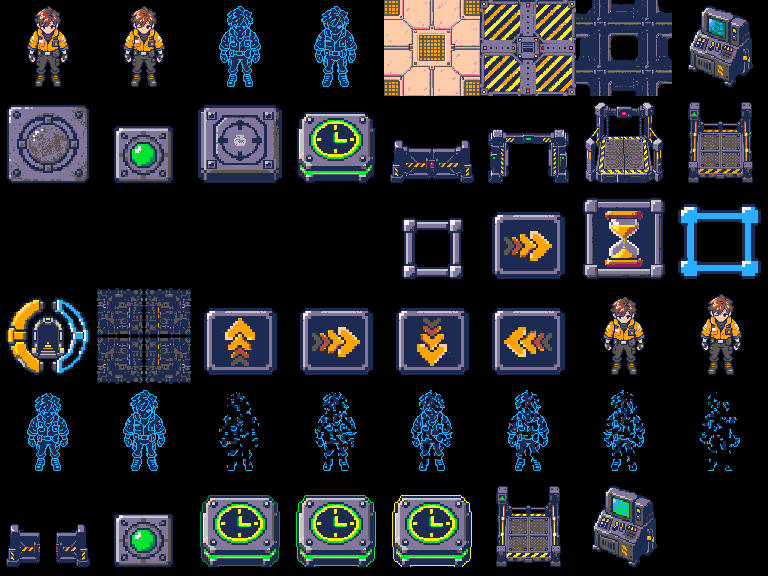
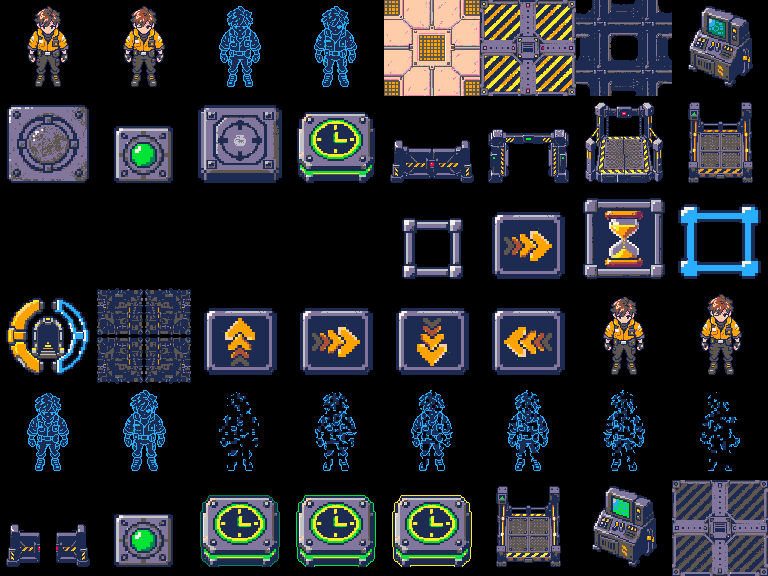
feat(ui): calm the hub room floor with a derived tile and stripe only its threshold

Changed region(s): [[0.875, 0.8125, 1.0, 1.0]]

diff --git a/tests/ui/test_hub_floor.py b/tests/ui/test_hub_floor.py
@@ -1,0 +1,51 @@
+from echo_shift.engine.loader import load
+from echo_shift.engine.model import Position
+from echo_shift.paths import resource_path
+from echo_shift.ui import cues
+
+
+def chamber(rows: list[str]):
+    """'#' wall, 'h' hub, 's' hub start, '.' floor outside the hub."""
+    hub = {
+        Position(x, y)
+        for y, row in enumerate(rows)
+        for x, c in enumerate(row)
+        if c in "hs"
+    }
+    start = next(
+        Position(x, y)
+        for y, row in enumerate(rows)
+        for x, c in enumerate(row)
+        if c == "s"
+    )
+    tiles = [["wall" if c == "#" else "floor" for c in row] for row in rows]
+    return load_chamber(tiles, hub, start)
+
+
+def load_chamber(tiles, hub, start):
+    from echo_shift.engine.model import Chamber
+
+    return Chamber(tiles=tiles, start=start, hub=hub, consoles={start}, capacity=0)
+
+
+def test_a_hub_tile_touching_outside_floor_is_a_threshold():
+    room = chamber(["#####", "#shh.", "#hhh#", "#####"])
+    assert cues.hub_thresholds(room) == {Position(1, 1), Position(3, 1)}
+
+
+def test_pillars_and_walls_do_not_make_thresholds():
+    room = chamber(["#######", "#hhhhh#", "#h#h#h#", "#hhshh#", "#######"])
+    assert cues.hub_thresholds(room) == {Position(3, 3)}
+
+
+def test_the_start_is_always_a_threshold():
+    assert cues.hub_thresholds(chamber(["###", "#s#", "###"])) == {Position(1, 1)}
+
+
+def test_shipped_chambers_keep_thresholds_and_a_calm_interior():
+    for number in range(1, 7):
+        room = load(resource_path("levels", f"chamber_{number:02}.json"))
+        edge = cues.hub_thresholds(room)
+        assert room.start in edge
+        assert edge <= room.hub
+        assert room.hub - edge

diff --git a/src/echo_shift/ui/app.py b/src/echo_shift/ui/app.py
@@ -168,6 +168,7 @@ class Game:
         self.room_view = (self.layout.cell, self.layout.room_x, self.layout.room_y)
         self.shaken = self.room_view  # the room view with any failure shake applied
         self.room_bounds = (0, 0, 0, 0)
+        self.hub_edge: tuple[object, frozenset[Position]] = (None, frozenset())
         self.camera = camera.Camera()
         self.text_cache = {}
         self.fonts = {}
@@ -1325,6 +1326,9 @@ class Game:
         lit = lighting.lit_tiles(state)
         pads = {pad.position: pad for pad in state.chamber.pads}
         devices = {device.position: device for device in state.chamber.devices}
+        if self.hub_edge[0] is not state.chamber:
+            self.hub_edge = (state.chamber, cues.hub_thresholds(state.chamber))
+        hub_edge = self.hub_edge[1]
         left_x, top_y, right_x, bottom_y = route_bounds(state.chamber)
         route = {
             Position(x, y)
@@ -1390,7 +1394,7 @@ class Game:
                 names = [
                     "wall"
                     if tile is TileType.WALL
-                    else "floor_hub"
+                    else ("floor_hub" if pos in hub_edge else "floor_hub_inner")
                     if pos in state.chamber.hub
                     else "floor_lit"
                 ]

diff --git a/src/echo_shift/ui/cues.py b/src/echo_shift/ui/cues.py
@@ -3,10 +3,25 @@
 from dataclasses import dataclass, replace
 
 from echo_shift.engine import lighting
-from echo_shift.engine.model import Device, Phase, Position, State, TileType
+from echo_shift.engine.model import Chamber, Device, Phase, Position, State, TileType
 from echo_shift.ui import camera
 
 STEPS = ((0, -1), (1, 0), (0, 1), (-1, 0))
+
+
+def hub_thresholds(chamber: Chamber) -> frozenset[Position]:
+    """Hub tiles where the safe room is left: the start and any hub tile that
+    touches a walkable tile outside the hub. Only these get the hazard stripes."""
+    return frozenset(
+        pos
+        for pos in chamber.hub
+        if pos == chamber.start
+        or any(
+            (near := Position(pos.x + dx, pos.y + dy)) not in chamber.hub
+            and chamber.tile_at(near) is not TileType.WALL
+            for dx, dy in STEPS
+        )
+    )
 
 
 def unsafe_neighbours(state: State) -> tuple[Position, ...]:
